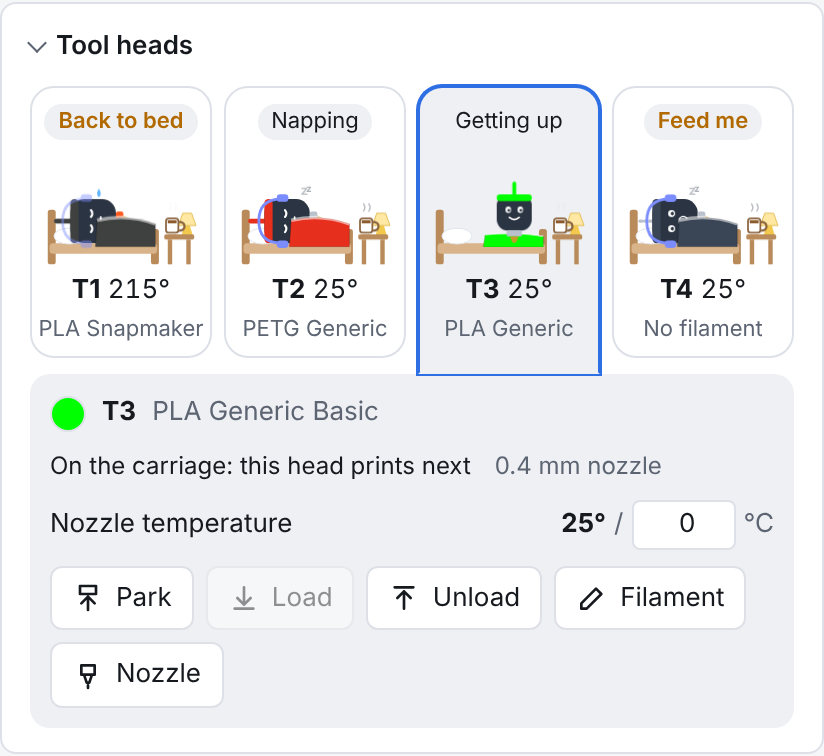
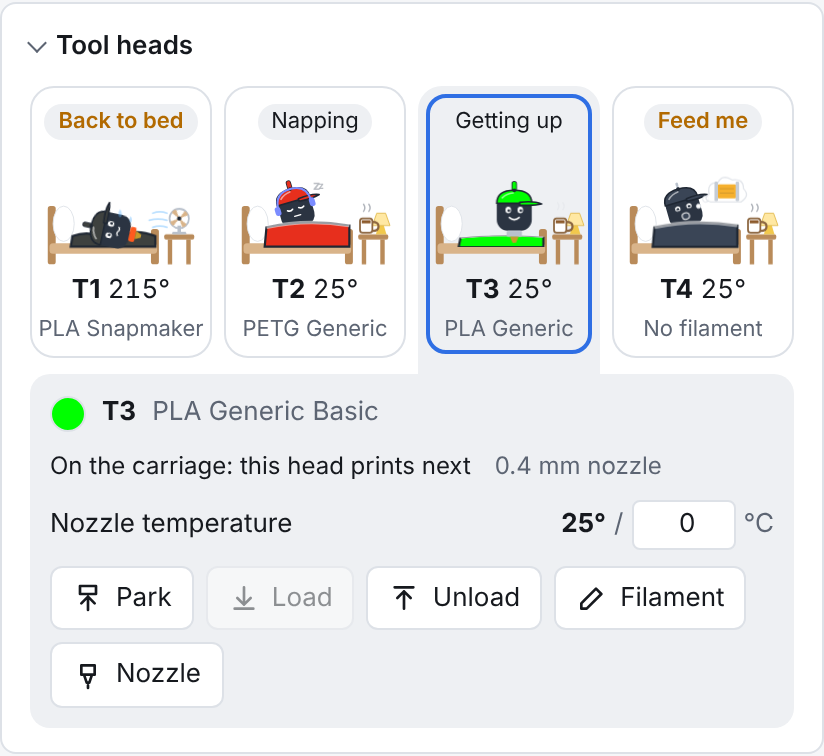
Device: docked heads rest by mood, propped up so the face shows
Napping heads nap under the blanket with headphones; still-hot heads sprawl on
top of it with a fan blowing; empty heads dream of a spool; heating heads sit
up and stretch. Only napping heads take a coffee break.

Claude-Session: https://claude.ai/code/session_01NuZpi382jh2qaLFFDcqjx2

diff --git a/apps/web/src/device/ui/HeadBed.tsx b/apps/web/src/device/ui/HeadBed.tsx
@@ -1,4 +1,4 @@
-import type { HeadMood } from '../heads';
+import { STILL_HOT, type HeadMood } from '../heads';
 import { HeadBody } from './HeadFace';
 
 /**
@@ -18,31 +18,67 @@ const PHONES = (
   </g>
 );
 
+/** How a docked head rests, from its mood: what it does in bed and what is on the bedside table. */
+type Pose = 'nap' | 'hot' | 'dream' | 'stretch' | 'worried';
+
+function poseOf(mood: HeadMood, temp: number): Pose {
+  if (mood === 'worried') return 'worried';
+  if (mood === 'hungry') return 'dream';
+  if (mood === 'heating') return 'stretch';
+  if (mood === 'hot' || mood === 'cooling' || temp >= STILL_HOT) return 'hot';
+  return 'nap';
+}
+
 /**
- * A docked tool head lying in bed with headphones on, under a blanket in its
- * filament colour. During a coffee break it hangs the headphones on the
- * bedpost, sits up (the blanket goes flat), sips from the mug on the bedside
- * table and lies back down; getting up and going to bed are the same moves.
+ * A docked tool head in bed, propped up on its pillow so the face shows.
+ * Napping: headphones on, under a blanket in its filament colour; now and then
+ * a coffee break (headphones on the bedpost, sits up, sips from the mug on the
+ * bedside table, lies back). Still hot: sprawled on top of the squashed
+ * blanket with a fan blowing at it. No filament: dreams of a spool. Heating
+ * up: sits up and stretches. Getting up and going to bed are the same moves.
  */
 export function HeadBed({ mood, colour, loaded, temp, scene, size = 60 }: { mood: HeadMood; colour: string | null; loaded: boolean | null; temp: number; scene: BedScene; size?: number }) {
-  const blanket = loaded && colour ? colour : 'var(--dv-head-hi)';
-  const lying: HeadMood = mood === 'printing' || mood === 'ready' || mood === 'heating' || mood === 'hot' ? 'napping' : mood;
-  return (
-    <svg className={`dv-bed dv-bed-${scene}`} viewBox="0 0 170 104" width={size * 1.63} height={size} aria-hidden>
-      <rect x="2" y="38" width="9" height="62" rx="3" fill="var(--dv-wood)" />
-      <rect x="119" y="60" width="9" height="40" rx="3" fill="var(--dv-wood)" />
-      <rect x="4" y="76" width="122" height="12" rx="4" fill="var(--dv-mattress)" />
-      <ellipse cx="26" cy="68" rx="17" ry="9" fill="#fff" stroke="var(--border)" />
-      <g className="dv-bed-lie">
-        <g transform="translate(12 90) rotate(-90) scale(.78)" style={PLACED}>
-          <HeadBody mood={lying} colour={colour} loaded={loaded} temp={temp} />
-          {PHONES}
+  const blanketColour = loaded && colour ? colour : 'var(--dv-head-hi)';
+  const pose = poseOf(mood, temp);
+  const edge = { stroke: 'var(--dv-outline)', strokeWidth: 2.5 };
+  const blanket = (
+    <g className="dv-bed-blanket">
+      {pose === 'hot' ? (
+        <path d="M30 68Q46 62 62 68Q76 74 90 66Q104 60 124 68V80H28Z" fill={blanketColour} {...edge} />
+      ) : (
+        <>
+          <path d={pose === 'stretch' ? 'M30 66Q76 58 124 64V80H28Z' : 'M30 58Q76 48 124 56V80H28Z'} fill={blanketColour} {...edge} />
+          <path d={pose === 'stretch' ? 'M30 66Q76 58 124 64' : 'M30 58Q76 48 124 56'} stroke="rgba(255,255,255,.55)" strokeWidth="4" fill="none" />
+        </>
+      )}
+    </g>
+  );
+  const lying =
+    pose === 'hot' ? (
+      <g transform="translate(38 84) rotate(-78) scale(.6)" style={PLACED}>
+        <HeadBody mood="cooling" colour={colour} loaded={loaded} temp={temp} />
+      </g>
+    ) : pose === 'stretch' ? (
+      <g transform="translate(30 10) scale(.6)" style={PLACED}>
+        <g className="dv-bed-stretch">
+          <HeadBody mood="heating" colour={colour} loaded={loaded} temp={temp} />
         </g>
       </g>
-      <g className="dv-bed-blanket">
-        <path d="M58 50Q92 42 124 54V80H56Z" fill={blanket} stroke="var(--dv-outline)" strokeWidth="2.5" />
-        <path d="M58 50Q92 42 124 54" stroke="rgba(255,255,255,.55)" strokeWidth="4" fill="none" />
+    ) : (
+      <g transform="translate(26 16) rotate(-16) scale(.6)" style={PLACED}>
+        <HeadBody mood={pose === 'nap' ? 'napping' : pose === 'dream' ? 'hungry' : 'worried'} colour={colour} loaded={loaded} temp={temp} />
+        {pose === 'nap' && PHONES}
       </g>
+    );
+  return (
+    <svg className={`dv-bed dv-bed-${scene} dv-bed-pose-${pose}`} viewBox="0 0 170 104" width={size * 1.63} height={size} aria-hidden>
+      <rect x="2" y="34" width="9" height="66" rx="3" fill="var(--dv-wood)" />
+      <rect x="119" y="60" width="9" height="40" rx="3" fill="var(--dv-wood)" />
+      <rect x="4" y="76" width="122" height="12" rx="4" fill="var(--dv-mattress)" />
+      <ellipse cx="20" cy="54" rx="12" ry="20" fill="#fff" stroke="var(--border)" />
+      {pose === 'hot' && blanket}
+      <g className="dv-bed-lie">{lying}</g>
+      {pose !== 'hot' && blanket}
       <g className="dv-bed-sit">
         <g transform="translate(60 16) scale(.62)" style={PLACED}>
           <HeadBody mood="ready" colour={colour} loaded={loaded} temp={temp} />
@@ -50,35 +86,89 @@ export function HeadBed({ mood, colour, loaded, temp, scene, size = 60 }: { mood
         </g>
       </g>
       <g className="dv-bed-post">
-        <path d="M-2 38Q6 22 14 38" stroke="var(--dv-phones)" strokeWidth="3" fill="none" />
-        <rect x="-5" y="36" width="7" height="11" rx="3" fill="var(--dv-phones)" />
-        <rect x="10" y="36" width="7" height="11" rx="3" fill="var(--dv-phones)" />
+        <path d="M-2 34Q6 18 14 34" stroke="var(--dv-phones)" strokeWidth="3" fill="none" />
+        <rect x="-5" y="32" width="7" height="11" rx="3" fill="var(--dv-phones)" />
+        <rect x="10" y="32" width="7" height="11" rx="3" fill="var(--dv-phones)" />
       </g>
       <rect x="134" y="66" width="34" height="6" rx="2" fill="var(--dv-wood)" />
       <rect x="138" y="72" width="5" height="28" fill="var(--dv-wood)" />
       <rect x="159" y="72" width="5" height="28" fill="var(--dv-wood)" />
-      <path d="M154 66h12l-3-10h-6z" fill="#f2c94c" />
-      <path d="M150 56h20l-5-14h-10z" fill="#ffe8a3" stroke="#e0b84a" />
-      <g className="dv-bed-mug">
-        <rect x="136" y="48" width="14" height="16" rx="3" fill="#fff" stroke="#8c6640" strokeWidth="2" />
-        <path d="M150 52q7 0 7 5t-7 5" stroke="#8c6640" strokeWidth="2.5" fill="none" />
-        <rect x="138" y="50" width="10" height="3.5" fill="#8c5a2b" />
-        <path className="dv-bed-steam" d="M140 44q3-4 0-8M146 44q3-4 0-8" stroke="var(--muted)" strokeWidth="1.6" fill="none" strokeLinecap="round" />
-      </g>
-      {temp >= 50 ? (
-        <path className="dv-face-drop dv-bed-z" d="M60 14q4 7 0 10q-4-3 0-10z" fill="#5db4ff" />
+      {pose === 'hot' ? (
+        <g className="dv-bed-fan">
+          <g transform="translate(151 48)" style={PLACED}>
+            <rect x="-2" y="8" width="4" height="8" fill="var(--dv-metal)" />
+            <rect x="-8" y="15" width="16" height="3" rx="1.5" fill="var(--dv-metal)" />
+            <circle r="11" fill="none" stroke="var(--dv-metal)" strokeWidth="2" />
+            <g className="dv-bed-blades">
+              <path d="M0 0L-3-10Q0-12 3-10ZM0 0L10-3Q12 0 10 3ZM0 0L3 10Q0 12-3 10ZM0 0L-10 3Q-12 0-10-3Z" fill="var(--dv-mattress)" />
+            </g>
+            <circle r="2.4" fill="var(--dv-outline)" />
+          </g>
+          <path className="dv-bed-wind" d="M134 42q-8-3-16 0M134 50q-10-3-20 0M134 58q-8-3-16 0" stroke="#7fc4ff" strokeWidth="2" fill="none" strokeLinecap="round" />
+        </g>
       ) : (
+        <>
+          <path d="M154 66h12l-3-10h-6z" fill="#f2c94c" />
+          <path d="M150 56h20l-5-14h-10z" fill="#ffe8a3" stroke="#e0b84a" />
+          <g className="dv-bed-mug">
+            <rect x="136" y="48" width="14" height="16" rx="3" fill="#fff" stroke="#8c6640" strokeWidth="2" />
+            <path d="M150 52q7 0 7 5t-7 5" stroke="#8c6640" strokeWidth="2.5" fill="none" />
+            <rect x="138" y="50" width="10" height="3.5" fill="#8c5a2b" />
+            <path className="dv-bed-steam" d="M140 44q3-4 0-8M146 44q3-4 0-8" stroke="var(--muted)" strokeWidth="1.6" fill="none" strokeLinecap="round" />
+          </g>
+        </>
+      )}
+      <BedExtra pose={pose} />
+    </svg>
+  );
+}
+
+/** Above the head: z's, sweat, a dream of a spool, steam or a "!". Hidden while the head gets up. */
+function BedExtra({ pose }: { pose: Pose }) {
+  switch (pose) {
+    case 'hot':
+      return (
+        <g className="dv-bed-z" fill="#5db4ff">
+          <path className="dv-face-drop" d="M84 30q4 7 0 10q-4-3 0-10z" />
+          <path className="dv-face-drop dv-face-z2" d="M96 38q3 5 0 8q-3-2 0-8z" />
+        </g>
+      );
+    case 'dream':
+      return (
+        <g className="dv-bed-z">
+          <circle cx="80" cy="34" r="2.5" fill="var(--surface)" stroke="var(--border)" />
+          <circle cx="88" cy="26" r="3.5" fill="var(--surface)" stroke="var(--border)" />
+          <g className="dv-bed-dream">
+            <path d="M92 22q-3-13 10-13q5-10 16-3q13-2 13 10q8 8-3 15h-34q-10-3-2-9z" fill="var(--surface)" stroke="var(--border)" strokeWidth="1.5" />
+            <rect x="101" y="11" width="22" height="16" rx="2" fill="var(--dv-warm)" />
+            <rect x="98" y="8" width="4" height="22" rx="1.5" fill="var(--dv-metal)" />
+            <rect x="122" y="8" width="4" height="22" rx="1.5" fill="var(--dv-metal)" />
+            <path d="M104 16h16M104 21h16" stroke="rgba(0,0,0,.2)" />
+          </g>
+        </g>
+      );
+    case 'stretch':
+      return (
+        <path className="dv-bed-z dv-face-steam" d="M80 14q4-5 0-10M90 18q4-5 0-10" stroke="var(--dv-hot)" strokeWidth="2.5" fill="none" strokeLinecap="round" />
+      );
+    case 'worried':
+      return (
+        <text className="dv-bed-z" x="84" y="26" fontSize="22" fontWeight="800" fill="var(--dv-warn)">
+          !
+        </text>
+      );
+    default:
+      return (
         <g className="dv-bed-z" fill="var(--muted)" fontWeight="700">
-          <text className="dv-face-z" x="64" y="28" fontSize="15">
+          <text className="dv-face-z" x="78" y="22" fontSize="15">
             z
           </text>
-          <text className="dv-face-z dv-face-z2" x="74" y="16" fontSize="11">
+          <text className="dv-face-z dv-face-z2" x="88" y="12" fontSize="11">
             z
           </text>
         </g>
-      )}
-    </svg>
-  );
+      );
+  }
 }
 
 /** How long each scene plays, in ms; asleep has no end. */

diff --git a/apps/web/src/device/ui/ToolheadsCard.tsx b/apps/web/src/device/ui/ToolheadsCard.tsx
@@ -44,7 +44,15 @@ export function ToolheadsCard() {
   const [editing, setEditing] = useState<U1Head | null>(null);
   const [nozzleOf, setNozzleOf] = useState<number | null>(null);
   const { confirm, dialog } = useConfirm();
-  const scenes = useBedScenes(heads);
+  // Only napping heads take a coffee break; hot, hungry or heating ones have other things on their mind.
+  const napping = nozzles.flatMap((n) => {
+    const i = extruderIndex(n.name) ?? 0;
+    const h = heads[i];
+    if (h?.dock !== 'parked') return [];
+    const mood = headMood({ temp: n.temp, target: n.target, inUse: false, printing, loaded: h.loaded, dock: h.dock, feedError: h.feed?.error });
+    return mood === 'napping' ? [i] : [];
+  });
+  const scenes = useBedScenes(heads, napping);
 
   if (!nozzles.length) return null;
 
@@ -228,12 +236,11 @@ const COFFEE_EVERY_MS = [45_000, 80_000] as const;
  * back to bed when it is parked, and now and then a coffee break. Nothing
  * plays when the viewer asks for less motion.
  */
-function useBedScenes(heads: U1Head[]): Partial<Record<number, BedScene>> {
+function useBedScenes(heads: U1Head[], napping: number[]): Partial<Record<number, BedScene>> {
   const [scenes, setScenes] = useState<Partial<Record<number, BedScene>>>({});
   const docks = useRef<Record<number, U1Head['dock']>>({});
   const timers = useRef<Record<number, ReturnType<typeof setTimeout>>>({});
-  const parked = heads.filter((h) => h.dock === 'parked').map((h) => h.index);
-  const parkedKey = parked.join(',');
+  const nappingKey = napping.join(',');
   const play = (i: number, scene: Exclude<BedScene, 'asleep'>) => {
     clearTimeout(timers.current[i]);
     setScenes((s) => ({ ...s, [i]: scene }));
@@ -254,7 +261,7 @@ function useBedScenes(heads: U1Head[]): Partial<Record<number, BedScene>> {
   }, [dockKey]);
 
   useEffect(() => {
-    if (!parked.length) return;
+    if (!napping.length) return;
     let t: ReturnType<typeof setTimeout>;
     const next = () => {
       const [lo, hi] = COFFEE_EVERY_MS;
@@ -262,7 +269,7 @@ function useBedScenes(heads: U1Head[]): Partial<Record<number, BedScene>> {
         if (!calm() && !document.hidden) {
           setScenes((s) => {
             if (Object.values(s).some(Boolean)) return s;
-            const i = parked[Math.floor(Math.random() * parked.length)];
+            const i = napping[Math.floor(Math.random() * napping.length)];
             clearTimeout(timers.current[i]);
             timers.current[i] = setTimeout(() => setScenes((x) => ({ ...x, [i]: undefined })), BED_SCENE_MS.coffee);
             return { ...s, [i]: 'coffee' };
@@ -274,7 +281,7 @@ function useBedScenes(heads: U1Head[]): Partial<Record<number, BedScene>> {
     next();
     return () => clearTimeout(t);
     // eslint-disable-next-line react-hooks/exhaustive-deps
-  }, [parkedKey]);
+  }, [nappingKey]);
 
   useEffect(() => () => Object.values(timers.current).forEach(clearTimeout), []);
   return scenes;

diff --git a/apps/web/src/styles.css b/apps/web/src/styles.css
@@ -3711,6 +3711,55 @@ select:focus-visible {
     transform: scaleY(1);
   }
 }
+@media (prefers-reduced-motion: no-preference) {
+  .dv-bed-blades {
+    animation: dv-bed-spin 0.5s linear infinite;
+  }
+  .dv-bed-wind {
+    animation: dv-bed-wind 1.2s linear infinite;
+  }
+  .dv-bed-dream {
+    animation: dv-bed-dream 3s ease-in-out infinite;
+  }
+  .dv-bed-stretch {
+    transform-origin: 50% 100%;
+    animation: dv-bed-stretch 2.4s ease-in-out infinite;
+  }
+}
+@keyframes dv-bed-spin {
+  to {
+    transform: rotate(360deg);
+  }
+}
+@keyframes dv-bed-wind {
+  0% {
+    opacity: 0;
+    transform: translateX(6px);
+  }
+  40% {
+    opacity: 1;
+  }
+  100% {
+    opacity: 0;
+    transform: translateX(-8px);
+  }
+}
+@keyframes dv-bed-dream {
+  50% {
+    transform: translateY(-2px);
+    opacity: 0.8;
+  }
+}
+@keyframes dv-bed-stretch {
+  0%,
+  100% {
+    transform: scaleY(1);
+  }
+  40%,
+  60% {
+    transform: scaleY(1.08);
+  }
+}
 .dv-chip {
   white-space: nowrap;
   font-size: 10px;
